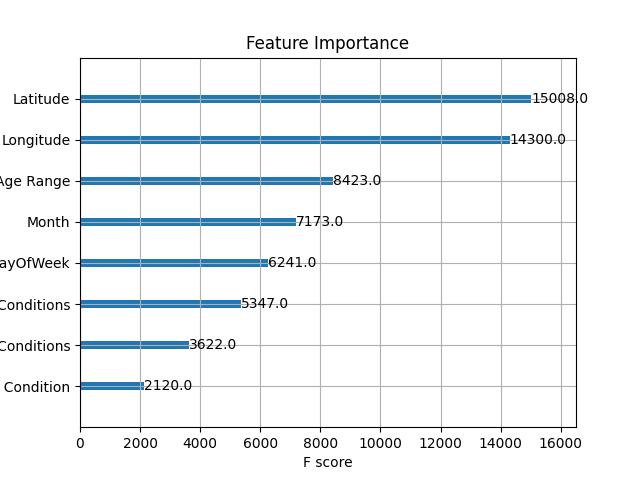
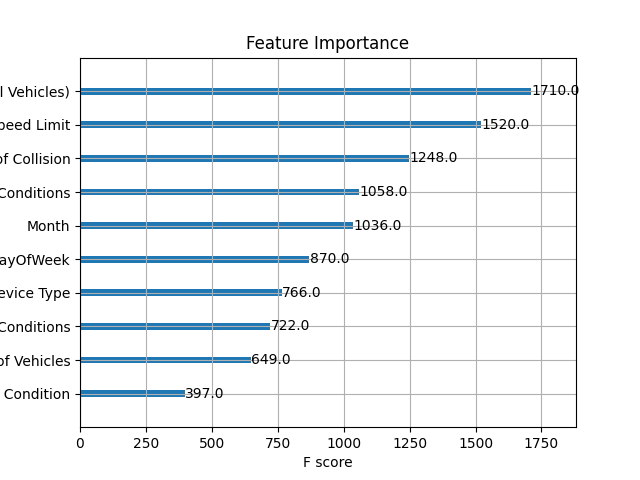
add more features and delete longitude,  latitude

diff --git a/XGBoost.py b/XGBoost.py
@@ -2,50 +2,56 @@ import pandas as pd
 import numpy as np
 from sklearn.model_selection import train_test_split, GridSearchCV
 from sklearn.metrics import accuracy_score, classification_report, confusion_matrix
-from sklearn.preprocessing import LabelEncoder, OneHotEncoder
+from sklearn.preprocessing import LabelEncoder
 import xgboost as xgb
 import matplotlib.pyplot as plt
 
-# 加载数据
-data_1 = pd.read_csv('export_11_2_2024_12_16_57.csv')
-data_2 = pd.read_csv('export_11_2_2024_12_20_13.csv')
-data = pd.concat([data_1, data_2], ignore_index=True)
+# 加载单一数据文件
+print("Loading data...")
+data = pd.read_csv('export_11_3_2024_23_23_10.csv')  # 使用新的数据文件路径
 
 # 数据清洗
-# 填充缺失值或删除（视情况而定）
+print("Cleaning data...")
 data.dropna(subset=['Crash Date', 'Crash Severity', 'Weather Conditions'], inplace=True)
 
 # 提取时间特征
+print("Extracting time-related features...")
 data['Crash Date'] = pd.to_datetime(data['Crash Date'])
 data['Month'] = data['Crash Date'].dt.month
 data['DayOfWeek'] = data['Crash Date'].dt.dayofweek
 
-# 年龄特征组合
-data['Age Range'] = data['Age of Driver - Youngest Known'] + '-' + data['Age of Driver - Oldest Known']
-
 # 编码分类变量
+print("Encoding categorical features...")
 label_enc = LabelEncoder()
 data['Crash Severity'] = label_enc.fit_transform(data['Crash Severity'])
 data['Weather Conditions'] = label_enc.fit_transform(data['Weather Conditions'])
 data['Light Conditions'] = label_enc.fit_transform(data['Light Conditions'])
 data['Road Surface Condition'] = label_enc.fit_transform(data['Road Surface Condition'])
-data['Age Range'] = label_enc.fit_transform(data['Age Range'])
+data['Manner of Collision'] = label_enc.fit_transform(data['Manner of Collision'])
+data['Traffic Control Device Type'] = label_enc.fit_transform(data['Traffic Control Device Type'])
+data['Vehicle Configuration (All Vehicles)'] = label_enc.fit_transform(data['Vehicle Configuration (All Vehicles)'])
 
-# 准备特征和标签
-X = data[['Month', 'DayOfWeek', 'Weather Conditions', 'Light Conditions', 'Road Surface Condition', 'Age Range', 'Latitude', 'Longitude']]
+# 准备特征和标签（去掉 Latitude 和 Longitude）
+print("Preparing features and target labels...")
+X = data[['Month', 'DayOfWeek', 'Weather Conditions', 'Light Conditions', 'Road Surface Condition', 
+          'Manner of Collision', 'Number of Vehicles', 'Speed Limit', 'Traffic Control Device Type', 
+          'Vehicle Configuration (All Vehicles)']]
 y = data['Crash Severity']
 
 # 划分训练集和测试集
+print("Splitting data into training and test sets...")
 X_train, X_test, y_train, y_test = train_test_split(X, y, test_size=0.2, random_state=42)
 
 # 模型训练
+print("Initializing XGBoost model...")
 xgb_model = xgb.XGBClassifier(
     objective='multi:softmax',
     num_class=len(y.unique()),
-    eval_metric='mlogloss',
+    eval_metric='mlogloss'
 )
 
 # 超参数调优
+print("Starting hyperparameter tuning...")
 param_grid = {
     'max_depth': [3, 5, 7],
     'learning_rate': [0.01, 0.1, 0.2],
@@ -57,19 +63,24 @@ param_grid = {
 grid_search = GridSearchCV(xgb_model, param_grid, scoring='accuracy', cv=3, verbose=1)
 grid_search.fit(X_train, y_train)
 
+# 获取最优模型
 print("Fetching best model from Grid Search...")
 best_model = grid_search.best_estimator_
 
+# 预测与评估
 print("Making predictions on the test set...")
 y_pred = best_model.predict(X_test)
 accuracy = accuracy_score(y_test, y_pred)
 report = classification_report(y_test, y_pred)
 conf_matrix = confusion_matrix(y_test, y_pred)
 
+# 打印评估结果
 print(f"Model Accuracy: {accuracy}")
 print("\nClassification Report:\n", report)
 print("\nConfusion Matrix:\n", conf_matrix)
 
+# 保存评估结果到文件
+print("Saving evaluation results to model_evaluation.txt...")
 with open("model_evaluation.txt", "w") as f:
     f.write(f"Model Accuracy: {accuracy}\n\n")
     f.write("Classification Report:\n")
@@ -84,3 +95,5 @@ xgb.plot_importance(best_model, importance_type='weight')
 plt.title('Feature Importance')
 plt.savefig("feature_importance.png")
 plt.show()
+
+print("Process complete.")
